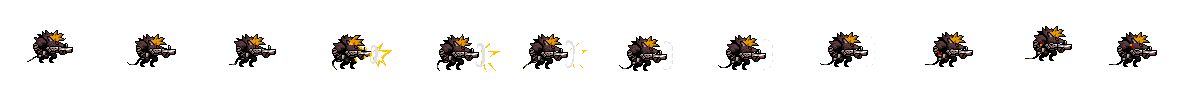
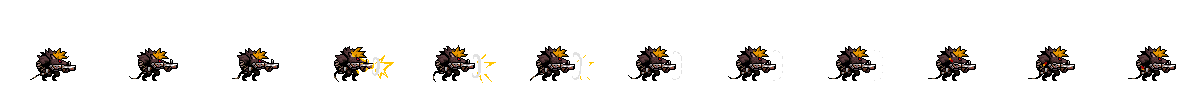
edit 1. orangeHairRat 이미지 수정, 이미지에 맞게 프레임 맞춰주었음 2. redHairRat 공격속도 상향 3. 주석추가

diff --git a/Game1/OrangeHairRat.cpp b/Game1/OrangeHairRat.cpp
@@ -27,7 +27,7 @@ orangeHairRat::orangeHairRat()
     idle->pivot = OFFSET_B;
     idle->SetParentRT(*collider);
     idle->SetLocalPosY(-collider->scale.y * 0.5);
-    idle->maxFrame.x = 9;
+    idle->maxFrame.x = 7;
     idle->maxFrame.y = 1;
     idle->scale.x = idle->imageSize.x / idle->maxFrame.x * 3;
     idle->scale.y = idle->imageSize.y / idle->maxFrame.y * 3;
@@ -36,7 +36,7 @@ orangeHairRat::orangeHairRat()
     run->pivot = OFFSET_B;
     run->SetParentRT(*collider);
     run->SetLocalPosY(-collider->scale.y * 0.5);
-    run->maxFrame.x = 7;
+    run->maxFrame.x = 6;
     run->maxFrame.y = 1;
     run->scale.x = run->imageSize.x / run->maxFrame.x * 3;
     run->scale.y = run->imageSize.y / run->maxFrame.y * 3;
@@ -54,7 +54,7 @@ orangeHairRat::orangeHairRat()
     attack->pivot = OFFSET_B;
     attack->SetParentRT(*collider);
     attack->SetLocalPosY(-collider->scale.y * 0.5);
-    attack->maxFrame.x = 9;
+    attack->maxFrame.x = 12;
     attack->maxFrame.y = 1;
     attack->scale.x = attack->imageSize.x / attack->maxFrame.x * 3;
     attack->scale.y = attack->imageSize.y / attack->maxFrame.y * 3;
@@ -86,7 +86,7 @@ orangeHairRat::orangeHairRat()
     hp = 100;
     damage = 10;
     attackSpeed = 0.3f;
-    attackFrame = 6;
+    attackFrame = 4;
     attackRange = 1;
     moveSpeed = 100;
     jumpSpeed = 700.0f;

diff --git a/Game1/Player_kill.cpp b/Game1/Player_kill.cpp
@@ -19,6 +19,7 @@ Player_kill::Player_kill()
 	crouch = new ObImage(L"kill_barehand_crouch.png");
 	attack = new ObImage(L"kill_barehand_sub_attack.png");
 	charging = new ObImage(L"kill_barehand_charging.png");
+	skill = new ObImage(L"kill_core_ignition_flare_blitz.png");
 	damaged = new ObImage(L"kill_barehand_damaged.png");
 	spawn = new ObImage(L"kill_barehand_spawn.png");
 	die = new ObImage(L"kill_barehand_die.png");
@@ -103,6 +104,15 @@ Player_kill::Player_kill()
 	chargingFx->color.w = 0.35f;
 	chargingFx->SetLocalPosY(-collider->scale.y * 0.62f);
 	chargingFx->ChangeAnim(ANIMSTATE::LOOP, 0.1f, true);
+
+	skill->pivot = OFFSET_B;
+	skill->SetParentRT(*collider);
+	skill->maxFrame.x = 31;
+	skill->maxFrame.y = 1;
+	skill->scale.x = skill->imageSize.x / skill->maxFrame.x * 3;
+	skill->scale.y = skill->imageSize.y / skill->maxFrame.y * 3;
+	skill->SetLocalPosY(-collider->scale.y * 0.3f);
+	skill->ChangeAnim(ANIMSTATE::ONCE, 0.085f, true);
 
 	damaged->pivot = OFFSET_B;
 	damaged->SetParentRT(*collider);

diff --git a/Game1/Scene3_jazzBar.cpp b/Game1/Scene3_jazzBar.cpp
@@ -6,6 +6,7 @@
 #include "Monster.h"
 #include "MonsterManager.h"
 #include "redHairRat.h"
+#include "OrangeHairRat.h"
 #include "Scene_proto.h"
 #include "Scene3_jazzBar.h"
 
@@ -71,7 +72,7 @@ void Scene3_jazzBar::Init()
 {
 	GM->player->SetPosition(startPostion);
 	GM->monster->AddMonster(new redHairRat(Vector2(3500, 2000)));
-	GM->monster->AddMonster(new redHairRat(Vector2(3600, 2000)));
+	GM->monster->AddMonster(new orangeHairRat(Vector2(3600, 2000)));
 }
 
 void Scene3_jazzBar::Release()

diff --git a/Game1/redHairRat.cpp b/Game1/redHairRat.cpp
@@ -85,7 +85,7 @@ redHairRat::redHairRat()
 
     hp = 100;
     damage = 10;
-    attackSpeed = 0.3f;
+    attackSpeed = 0.4f;
     attackFrame = 6;
     attackRange = 1;
     moveSpeed = 100;
